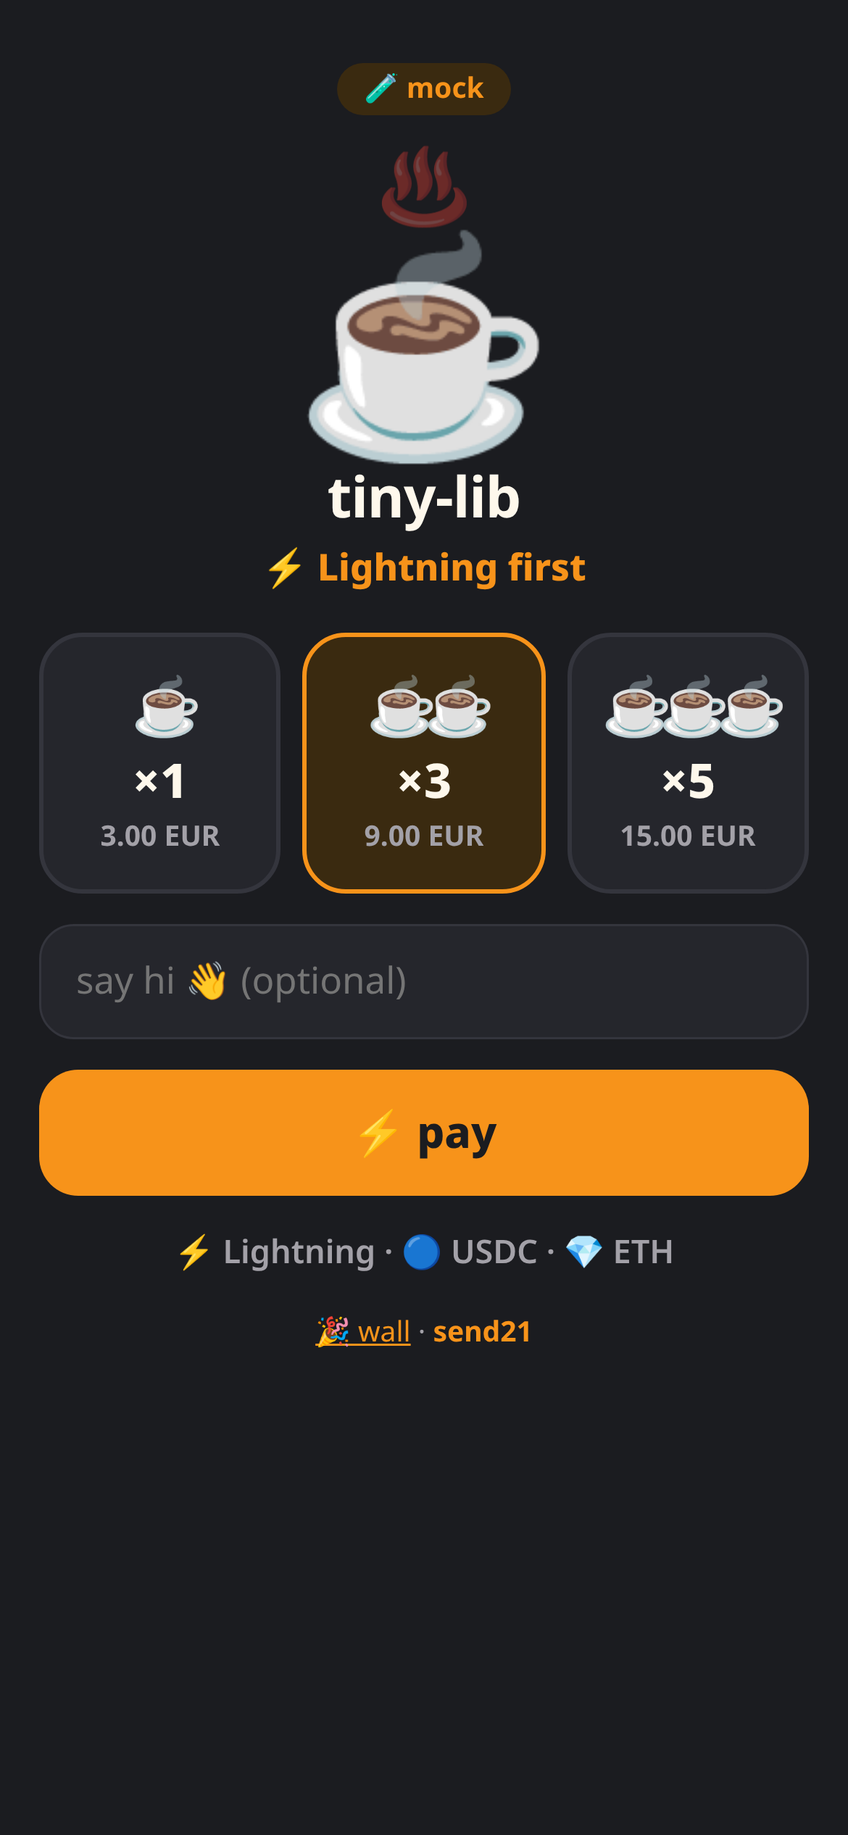
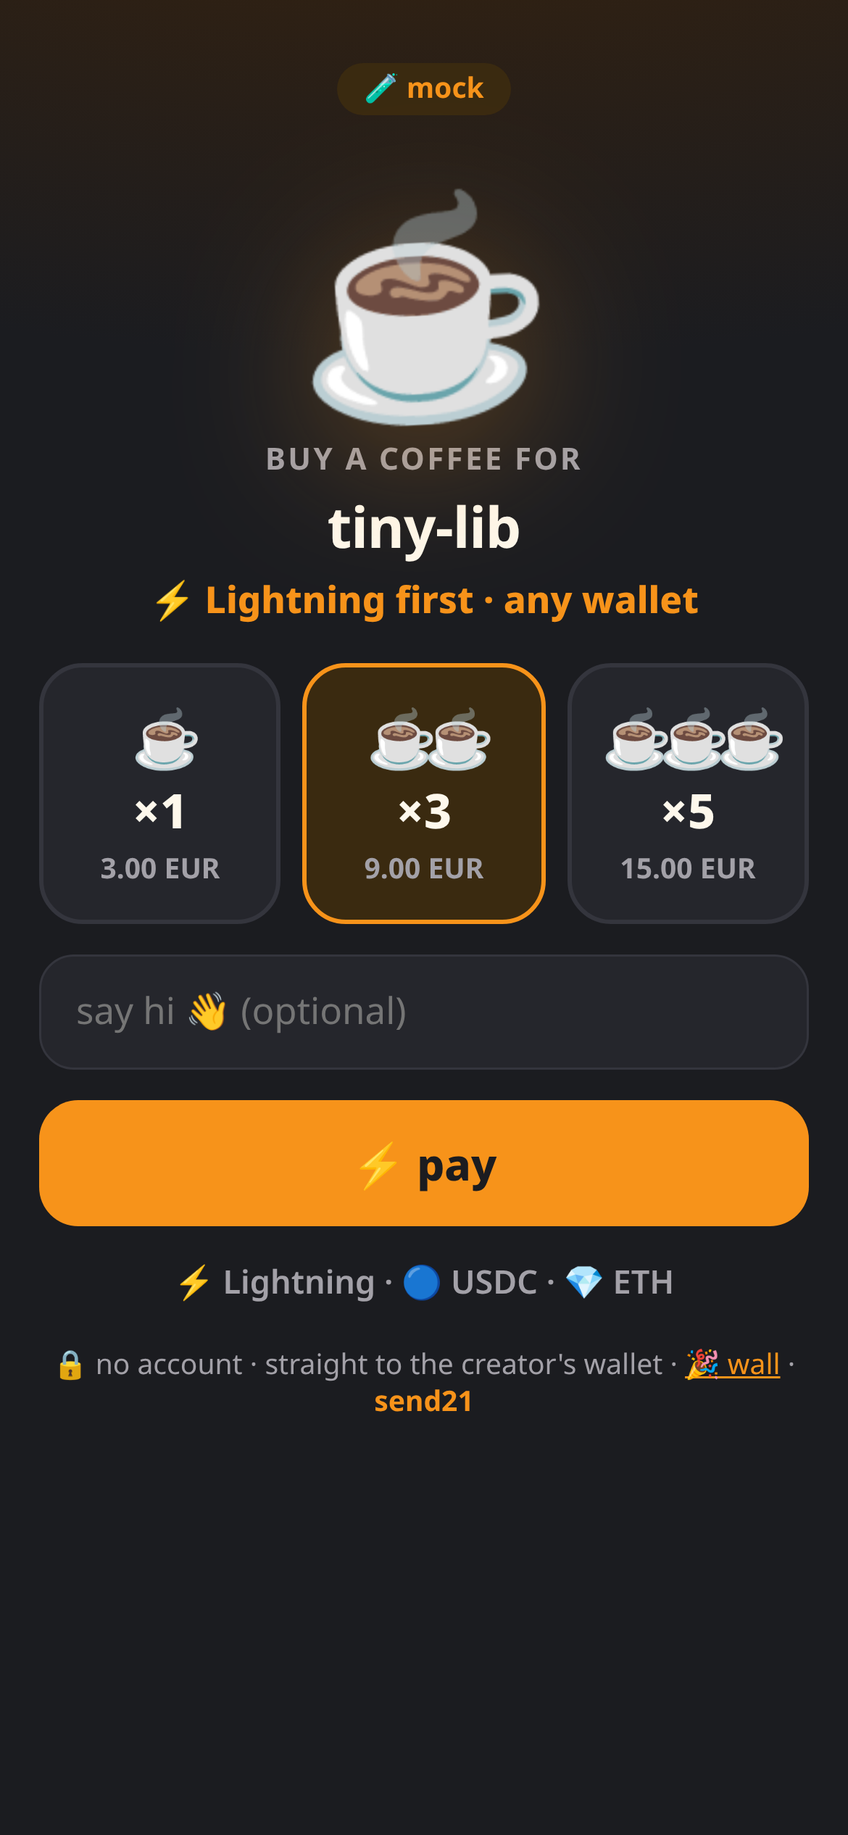
ux: keep input on errors, prices in the widget, clearer mock pay page
- a refused message re-renders with what you typed and your cups selected
  (it used to wipe the form), marked aria-invalid
- widget tiles show the same prices as the page (/api/wall carries prices)
- mock pay page: one coin picker, 👍 accept / ↩ decline for short pays,
  unknown actions 404 instead of silently expiring the order
- '1 supporters' / '1 coffees' grammar, radio tiles in a fieldset with a
  legend, demo page favicon 404, calmer mug with an orange glow
- refreshed docs screenshots

diff --git a/src/server.ts b/src/server.ts
@@ -3,7 +3,8 @@ import { dirname, resolve, sep } from "node:path";
 import { fileURLToPath } from "node:url";
 import express, { type Express, type Request, type Response } from "express";
 import { badgeSvg } from "./badge.js";
-import { applyEvent, checkInput, createOrder, wall, type CoffeeConfig } from "./coffee.js";
+import { applyEvent, checkInput, createOrder, priceFor, wall, type CoffeeConfig } from "./coffee.js";
+import { CUPS } from "./types.js";
 import { formatFiat } from "./currencies.js";
 import { coffeePage, errorPage, esc, wallPage } from "./pages.js";
 import { friendlyError, Send21Error, type createMockClient, type Send21Client } from "./send21.js";
@@ -105,7 +106,8 @@ export function createApp(deps: AppDeps): Express {
   app.post("/coffee", rateLimit(10, 60_000), express.urlencoded({ extended: false, limit: "2kb" }), async (req, res) => {
     const input = checkInput(req.body ?? {});
     if (!input.ok) {
-      res.status(400).type("html").send(coffeePage(page, { error: input.error }));
+      const b = (req.body ?? {}) as { cups?: string; message?: string };
+      res.status(400).type("html").send(coffeePage(page, { error: input.error, cups: Number(b.cups) || 3, message: typeof b.message === "string" ? b.message.slice(0, 80) : "" }));
       return;
     }
     try {
@@ -129,7 +131,9 @@ export function createApp(deps: AppDeps): Express {
   });
   app.get("/api/wall", (_req, res) => {
     // Public data by design, readable by the widget on any site.
-    res.set({ "Access-Control-Allow-Origin": "*", "Cache-Control": "public, max-age=30" }).json(wallData());
+    // prices: what each tile costs, so the widget shows the same prices as the page.
+    const prices = Object.fromEntries(CUPS.map((n) => [n, formatFiat(priceFor(n, coffee.price, coffee.currency), coffee.currency)]));
+    res.set({ "Access-Control-Allow-Origin": "*", "Cache-Control": "public, max-age=30" }).json({ ...wallData(), prices });
   });
   app.get("/badge.svg", (req, res) => {
     const left = req.query.count !== undefined ? `☕ ${wallData().coffees} coffees` : "☕ buy me a coffee";
@@ -153,7 +157,18 @@ export function createApp(deps: AppDeps): Express {
 
 // ---------- mock mode: a tiny local "pay page" that sends signed deliveries ----------
 
-function mountMock(app: Express, secret: string, { client, selfUrl }: NonNullable<AppDeps["mock"]>): void {
+const MOCK_ACTIONS: [string, string, string][] = [
+  ["paid", "✅", "pay"],
+  ["seen", "👀", "start paying"],
+  ["short", "⚠", "pay 5% short"],
+  ["accept", "👍", "accept the short pay"],
+  ["decline", "↩", "decline the short pay"],
+  ["expire", "⌛", "let it expire"],
+];
+const mockShell = (title: string, body: string) => `<!doctype html><html lang="en"><head><meta charset="utf-8"><meta name="viewport" content="width=device-width,initial-scale=1"><title>${esc(title)} · mock pay</title><link rel="icon" href="data:,"><link rel="stylesheet" href="/coffee.css"></head><body><main class="coffee">${body}</main></body></html>`;
+
+function mountMock(app: Express, secret: string, mock: NonNullable<AppDeps["mock"]>): void {
+  const { client } = mock;
   app.get("/mock/pay/:token", (req, res) => {
     const entry = client.requests.get(req.params.token);
     if (!entry) {
@@ -162,10 +177,16 @@ function mountMock(app: Express, secret: string, { client, selfUrl }: NonNullabl
     }
     const t = esc(req.params.token);
     const coins = entry.body.options.map((o, i) => `<option value="${i}">${esc(`${o.currency.toUpperCase()} · ${o.method ?? o.network}`)}</option>`).join("");
-    res.type("html").send(`<!doctype html><meta name="viewport" content="width=device-width,initial-scale=1"><title>mock pay</title><link rel="stylesheet" href="/coffee.css">
-<main class="coffee"><p class="mock">🧪 mock · no real money</p><p class="big">${esc(formatFiat(entry.body.fiatAmount, entry.body.fiatCurrency))}</p><p>${esc(entry.body.memo)}</p>
-${[["seen", "👀 start paying"], ["paid", "✅ pay"], ["short", "⚠ pay 5% short"], ["expire", "⌛ expire"]].map(([a, l]) => `<form class="mockrow" method="post" action="/mock/pay/${t}/${a}"><select name="coin">${coins}</select><button class="go">${l}</button></form>`).join("")}
-</main>`);
+    const amount = formatFiat(entry.body.fiatAmount, entry.body.fiatCurrency);
+    res.type("html").send(
+      mockShell(
+        amount,
+        `<p class="mock">🧪 mock pay page · no real money</p><p class="big">${esc(amount)}</p><p class="memo">${esc(entry.body.memo)}</p>
+<form method="post" action="/mock/pay/${t}/paid" class="mockcard"><label for="coin">🪙 pay with</label><select id="coin" name="coin">${coins}</select>
+<div class="acts">${MOCK_ACTIONS.map(([a, i, l]) => `<button formaction="/mock/pay/${t}/${a}" class="${a === "paid" ? "main" : ""}">${i} ${l}</button>`).join("")}</div></form>
+<p class="foot">Each button sends a signed webhook to this app, like send21 would. 👍 / ↩ are what the send21 account owner does with a short pay.</p>`,
+      ),
+    );
   });
 
   app.post("/mock/pay/:token/:action", express.urlencoded({ extended: false, limit: "1kb" }), async (req, res) => {
@@ -190,23 +211,43 @@ ${[["seen", "👀 start paying"], ["paid", "✅ pay"], ["short", "⚠ pay 5% 
       sentAmount: (amountSats / units).toFixed(Math.log10(units)),
       occurredAt: new Date().toISOString(),
     };
-    const action = req.params.action;
-    const body =
-      action === "paid"
-        ? { event: "draft.confirmed", data: { ...base, status: "Confirmed", txId: `mock-${randomUUID()}`, confirmations: 1 } }
-        : action === "seen"
-          ? { event: "draft.seen", data: { ...base, status: "Seen", txId: `mock-${randomUUID()}`, confirmations: 0 } }
-          : action === "short"
-            ? { event: "draft.amount_mismatch", data: { ...base, status: "AwaitingPayment", reviewState: "pending", receivedAmountSats: Math.round(amountSats * 0.95) } }
-            : { event: "payment_request.expired", data: { paymentRequestId: entry.response.id, orderId: entry.body.orderId, opened: true, quoteRequested: false } };
-    const raw = JSON.stringify(body);
-    const deliveryId = randomUUID();
-    const r = await fetch(`${selfUrl}/webhooks/send21`, {
-      method: "POST",
-      headers: { "content-type": "application/json", "x-send21-event": body.event, "x-send21-delivery": deliveryId, "x-send21-signature-v2": signV2(raw, deliveryId, Math.floor(Date.now() / 1000), secret) },
-      body: raw,
-    });
-    res.type("html").send(`<!doctype html><meta name="viewport" content="width=device-width,initial-scale=1"><link rel="stylesheet" href="/coffee.css">
-<main class="coffee"><p class="big">${r.ok ? "📨" : "❌"}</p><p>${esc(r.ok ? body.event : String(r.status))}</p><a class="go" href="/wall">🎉 wall</a><p class="foot"><a href="/mock/pay/${esc(req.params.token)}">↩ back</a></p></main>`);
+    const short = Math.round(amountSats * 0.95);
+    const tx = `mock-${randomUUID()}`;
+    const events: Record<string, { event: string; data: Record<string, unknown> }[]> = {
+      paid: [{ event: "draft.confirmed", data: { ...base, status: "Confirmed", txId: tx, confirmations: 1 } }],
+      seen: [{ event: "draft.seen", data: { ...base, status: "Seen", txId: tx, confirmations: 0 } }],
+      short: [{ event: "draft.amount_mismatch", data: { ...base, status: "AwaitingPayment", reviewState: "pending", receivedAmountSats: short } }],
+      // The owner accepts on send21: draft.mismatch_accepted, then draft.confirmed for the received amount.
+      accept: [
+        { event: "draft.mismatch_accepted", data: { ...base, status: "AwaitingPayment", reviewState: "accepted", acceptReason: "close enough", receivedAmountSats: short } },
+        { event: "draft.confirmed", data: { ...base, status: "Confirmed", txId: tx, confirmations: 1, receivedAmountSats: short } },
+      ],
+      decline: [{ event: "draft.mismatch_rejected", data: { ...base, status: "AwaitingPayment", reviewState: "rejected", rejectReason: "too short", refund: "manual", receivedAmountSats: short } }],
+      expire: [{ event: "payment_request.expired", data: { paymentRequestId: entry.response.id, orderId: entry.body.orderId, opened: true, quoteRequested: false } }],
+    };
+    const list = Object.hasOwn(events, req.params.action) ? events[req.params.action]! : null;
+    if (!list) {
+      res.status(404).send("unknown action");
+      return;
+    }
+    let r = { ok: false, status: 0 };
+    for (const body of list) {
+      const raw = JSON.stringify(body);
+      const deliveryId = randomUUID();
+      r = await fetch(`${mock.selfUrl}/webhooks/send21`, {
+        method: "POST",
+        headers: { "content-type": "application/json", "x-send21-event": body.event, "x-send21-delivery": deliveryId, "x-send21-signature-v2": signV2(raw, deliveryId, Math.floor(Date.now() / 1000), secret) },
+        body: raw,
+      });
+      if (!r.ok) break;
+    }
+    const names = list.map((b) => b.event).join(" → ");
+    res.status(r.ok ? 200 : 502).type("html").send(
+      mockShell(
+        names,
+        `<p class="big">${r.ok ? "📨" : "❌"}</p><h1>${r.ok ? "webhook sent" : `webhook refused (${r.status})`}</h1><p class="memo"><code>${esc(names)}</code></p>
+<a class="go" href="/wall">🎉 see the wall</a><a class="go ghost" href="/mock/pay/${esc(req.params.token)}">↩ mock pay page</a>`,
+      ),
+    );
   });
 }

diff --git a/test/mock.test.ts b/test/mock.test.ts
@@ -1,0 +1,87 @@
+import { mkdtempSync, rmSync } from "node:fs";
+import { tmpdir } from "node:os";
+import { join } from "node:path";
+import { afterEach, beforeEach, describe, expect, it } from "vitest";
+import { createMockClient } from "../src/send21.js";
+import { createApp } from "../src/server.js";
+import { Store } from "../src/store.js";
+import { coffeeConfig, listen, SECRET } from "./helpers.js";
+
+let dir: string;
+let server: Awaited<ReturnType<typeof listen>>;
+let store: Store;
+let mock: { client: ReturnType<typeof createMockClient>; selfUrl: string };
+
+beforeEach(async () => {
+  dir = mkdtempSync(join(tmpdir(), "coffee-mock-"));
+  store = new Store(join(dir, "c.json"));
+  mock = { client: createMockClient("http://localhost"), selfUrl: "" };
+  server = await listen(createApp({ store, send21: mock.client, secret: SECRET, coffee: coffeeConfig(), wall: { amounts: false, messages: true }, publicUrl: "http://localhost", log: () => undefined, mock }));
+  mock.selfUrl = server.url;
+});
+afterEach(async () => {
+  await server.close();
+  rmSync(dir, { recursive: true, force: true });
+});
+
+const post = (path: string, body: string) => fetch(`${server.url}${path}`, { method: "POST", redirect: "manual", headers: { "content-type": "application/x-www-form-urlencoded" }, body });
+
+async function order(message = "hi") {
+  const r = await post("/coffee", `nonce=${crypto.randomUUID().replace(/-/g, "").slice(0, 20)}&cups=1&message=${encodeURIComponent(message)}`);
+  expect(r.status).toBe(303);
+  const token = /\/mock\/pay\/([^/?#]+)/.exec(r.headers.get("location")!)![1]!;
+  const act = (a: string) => post(`/mock/pay/${token}/${a}`, "coin=0");
+  return { token, act };
+}
+const wall = async () => (await (await fetch(`${server.url}/api/wall`)).json()) as { coffees: number };
+
+describe("coffee page errors", () => {
+  it("a refused message keeps what you typed and your cups", async () => {
+    const r = await post("/coffee", "nonce=abcdefghij0123456789&cups=5&message=" + encodeURIComponent("see https://spam.example"));
+    expect(r.status).toBe(400);
+    const html = await r.text();
+    expect(html).toContain('value="see https://spam.example"');
+    expect(html).toMatch(/value="5" checked/);
+    expect(html).toContain('aria-invalid="true"');
+  });
+});
+
+describe("wall API", () => {
+  it("carries the tile prices, so the widget matches the page", async () => {
+    const w = await (await fetch(`${server.url}/api/wall`)).json();
+    expect(Object.keys(w.prices)).toEqual(["1", "3", "5"]);
+    const page = await (await fetch(`${server.url}/`)).text();
+    for (const p of Object.values(w.prices) as string[]) expect(page).toContain(p);
+  });
+});
+
+describe("mock pay page", () => {
+  it("one coin picker, every action, lang set", async () => {
+    const { token } = await order();
+    const html = await (await fetch(`${server.url}/mock/pay/${token}`)).text();
+    expect(html).toContain('<html lang="en">');
+    expect(html.match(/<select/g)).toHaveLength(1);
+    for (const a of ["paid", "seen", "short", "accept", "decline", "expire"]) expect(html).toContain(`/mock/pay/${token}/${a}`);
+  });
+
+  it("short → accept lands on the wall, short → decline does not", async () => {
+    const one = await order();
+    await one.act("short");
+    expect((await wall()).coffees).toBe(0);
+    expect((await one.act("accept")).status).toBe(200);
+    expect((await wall()).coffees).toBe(1);
+    const page = await (await fetch(`${server.url}/wall`)).text();
+    expect(page).toContain("☕ 1</b> coffee ·");
+    expect(page).toContain("💛 1</b> supporter</p>");
+    const two = await order();
+    await two.act("short");
+    await two.act("decline");
+    expect((await wall()).coffees).toBe(1);
+  });
+
+  it("an unknown action is a 404, not an expiry", async () => {
+    const { act } = await order();
+    expect((await act("nope")).status).toBe(404);
+    expect(store.orders().map((o) => o.status)).toEqual(["open"]);
+  });
+});

diff --git a/public/coffee.css b/public/coffee.css
@@ -1,14 +1,18 @@
 :root { --bg: #1b1c20; --card: #25262c; --line: #34353d; --text: #fef8ec; --dim: #a3a1a8; --orange: #f7931a; color-scheme: dark; }
 * { box-sizing: border-box; }
 html, body { margin: 0; background: var(--bg); color: var(--text); }
+body { background: radial-gradient(900px 380px at 50% -12%, #3a230c 0%, transparent 70%), var(--bg); }
 body { font: 17px/1.35 system-ui, -apple-system, "Segoe UI", Roboto, "Noto Sans", sans-serif; min-height: 100dvh; }
 a { color: var(--orange); }
 :focus-visible { outline: 3px solid var(--orange); outline-offset: 2px; }
 .coffee, .wall { max-width: 440px; margin: 0 auto; padding: 28px 18px 48px; text-align: center; }
 .mock { display: inline-block; background: #3a2a10; color: var(--orange); border-radius: 99px; padding: 3px 12px; font-weight: 700; font-size: 13px; margin: 0 0 8px; }
-.mug { position: relative; font-size: 96px; line-height: 1; margin: 48px 0 6px; }
-.steam { position: absolute; left: 50%; top: -34px; font-size: 34px; transform: translateX(-50%); animation: steam 2.4s ease-in-out infinite; opacity: .8; }
-@keyframes steam { 50% { transform: translate(-50%, -8px); opacity: .35; } }
+.mug { font-size: 96px; line-height: 1; margin: 36px 0 6px; filter: drop-shadow(0 12px 34px #f7931a55); animation: bob 3s ease-in-out infinite; }
+@keyframes bob { 50% { transform: translateY(-6px) rotate(-3deg); } }
+@media (prefers-reduced-motion: reduce) { .mug { animation: none; } }
+.kicker { color: var(--dim); font-weight: 700; font-size: 14px; text-transform: uppercase; letter-spacing: .08em; margin: 10px 0 0; }
+.sr { position: absolute; width: 1px; height: 1px; overflow: hidden; clip: rect(0 0 0 0); white-space: nowrap; }
+fieldset { border: 0; padding: 0; margin: 0; min-width: 0; }
 h1 { font-size: 26px; margin: 4px 0; letter-spacing: -.01em; }
 .hero { color: var(--orange); font-weight: 800; margin: 4px 0 18px; }
 .err { background: #3a1d1d; color: #ffb4b4; border-radius: 14px; padding: 10px 14px; font-weight: 600; }
@@ -37,7 +41,14 @@ h1 { font-size: 26px; margin: 4px 0; letter-spacing: -.01em; }
 .note .dim { color: var(--dim); }
 .note .meta { grid-area: t; color: var(--dim); font-size: 13px; }
 .empty { text-align: center; color: var(--dim); font-size: 20px; padding: 30px; }
-.mockrow { display: flex; gap: 8px; align-items: center; }
-.mockrow select { flex: 1; background: var(--card); color: inherit; border: 1px solid var(--line); border-radius: 12px; padding: 12px; font: inherit; }
-.mockrow .go { width: auto; flex: 1; min-height: 50px; font-size: 16px; margin-top: 8px; }
-@media (prefers-reduced-motion: reduce) { .steam { animation: none; } }
+.memo { color: var(--dim); margin: 0 0 18px; }
+.mockcard { background: var(--card); border: 1px solid var(--line); border-radius: 20px; padding: 16px; text-align: left; }
+.mockcard label { display: block; color: var(--dim); font-weight: 700; font-size: 14px; margin-bottom: 6px; }
+.mockcard select { width: 100%; background: #2e2f36; color: inherit; border: 1px solid var(--line); border-radius: 14px; padding: 12px; font: inherit; font-weight: 700; }
+.acts { display: grid; grid-template-columns: 1fr 1fr; gap: 8px; margin-top: 12px; }
+.acts button { min-height: 50px; padding: 10px 12px; border-radius: 14px; border: 1px solid var(--line); background: #2e2f36; color: var(--text); font: inherit; font-size: 15px; font-weight: 700; cursor: pointer; }
+.acts button:last-child:nth-child(even) { grid-column: 1 / -1; }
+.acts .main { grid-column: 1 / -1; min-height: 56px; font-size: 19px; font-weight: 800; background: var(--orange); border-color: var(--orange); color: var(--bg); }
+.go.ghost { background: transparent; border: 1px solid var(--line); color: var(--text); font-size: 17px; min-height: 50px; }
+code { background: #2e2f36; border-radius: 8px; padding: 2px 8px; font-size: 14px; }
+@media (prefers-reduced-motion: reduce) { 

diff --git a/src/pages.ts b/src/pages.ts
@@ -41,7 +41,7 @@ export interface PageConfig {
   mock: boolean;
 }
 
-export function coffeePage(cfg: PageConfig, { error, cups = 3 }: { error?: string; cups?: number } = {}): string {
+export function coffeePage(cfg: PageConfig, { error, cups = 3, message = "" }: { error?: string; cups?: number; message?: string } = {}): string {
   const lightning = cfg.options.some((o) => o.method === "Lightning");
   const tiles = CUPS.map(
     (n) => `<label class="tile"><input type="radio" name="cups" value="${n}"${n === cups ? " checked" : ""}>
@@ -51,18 +51,19 @@ export function coffeePage(cfg: PageConfig, { error, cups = 3 }: { error?: strin
     `☕ ${cfg.creator}`,
     `<main class="coffee">
 ${cfg.mock ? '<p class="mock">🧪 mock</p>' : ""}
-<div class="mug" aria-hidden="true"><span class="steam">♨</span>☕</div>
+<div class="mug" aria-hidden="true">☕</div>
+<p class="kicker">buy a coffee for</p>
 <h1>${esc(cfg.creator)}</h1>
-${lightning ? '<p class="hero">⚡ Lightning first</p>' : ""}
-${error ? `<p class="err" role="alert">${esc(error)}</p>` : ""}
+${lightning ? '<p class="hero">⚡ Lightning first · any wallet</p>' : '<p class="hero">💸 pay from any wallet</p>'}
+${error ? `<p class="err" role="alert" id="err">${esc(error)}</p>` : ""}
 <form method="post" action="/coffee">
 <input type="hidden" name="nonce" value="${newNonce()}">
-<div class="tiles">${tiles}</div>
-<input class="msg" name="message" maxlength="80" placeholder="say hi 👋 (optional)" autocomplete="off" aria-label="message">
+<fieldset class="tiles"><legend class="sr">how many coffees</legend>${tiles}</fieldset>
+<input class="msg" name="message" maxlength="80" placeholder="say hi 👋 (optional)" autocomplete="off" aria-label="message" value="${esc(message)}"${error ? ' aria-invalid="true" aria-describedby="err"' : ""}>
 <button class="go">${lightning ? "⚡" : "💸"} pay</button>
 </form>
 <p class="coins">${esc(coinsLine(cfg.options))}</p>
-<p class="foot"><a href="/wall">🎉 wall</a> · <span>send21</span></p>
+<p class="foot">🔒 no account · straight to the creator's wallet · <a href="/wall">🎉 wall</a> · <span>send21</span></p>
 </main>`,
   );
 }
@@ -89,7 +90,7 @@ export function wallPage(creator: string, w: ReturnType<typeof wall>, mock: bool
 ${mock ? '<p class="mock">🧪 mock</p>' : ""}
 <p class="big">🎉</p>
 <h1>${esc(creator)}</h1>
-<p class="stats"><b>☕ ${w.coffees}</b> coffees · <b>💛 ${w.supporters}</b> supporters</p>
+<p class="stats"><b>☕ ${w.coffees}</b> ${w.coffees === 1 ? "coffee" : "coffees"} · <b>💛 ${w.supporters}</b> ${w.supporters === 1 ? "supporter" : "supporters"}</p>
 <a class="go" href="/">☕ buy one</a>
 <ul class="notes">${items}</ul>
 <p class="foot">confirmed payments only · <span>send21</span></p>

diff --git a/public/widget.js b/public/widget.js
@@ -31,9 +31,10 @@
 .tiles { display: grid; grid-template-columns: repeat(3, 1fr); gap: 8px; }
 .tile { position: relative; }
 .tile input { position: absolute; opacity: 0; inset: 0; }
-.tile span { display: flex; flex-direction: column; align-items: center; justify-content: center; gap: 2px; min-height: 78px; border-radius: 16px;
+.tile span { display: flex; flex-direction: column; align-items: center; justify-content: center; gap: 2px; min-height: 86px; border-radius: 16px;
   background: #25262c; border: 2px solid #34353d; font-size: 22px; cursor: pointer; }
 .tile b { font-size: 16px; }
+.tile small { font-size: 11px; font-weight: 700; color: #a3a1a8; min-height: 14px; }
 .tile input:checked + span { border-color: #f7931a; background: #3a2a10; }
 .tile input:focus-visible + span { outline: 3px solid #fef8ec; }
 .msg { width: 100%; margin-top: 10px; background: #25262c; border: 1px solid #34353d; border-radius: 14px; padding: 12px; color: inherit; font-size: 15px; }
@@ -76,7 +77,7 @@
   const tile = (n, cups, checked) => {
     const input = el("input", { type: "radio", name: "cups", value: String(n), "aria-label": `${n} coffee${n > 1 ? "s" : ""}` });
     if (checked) input.checked = true;
-    return el("label", { class: "tile" }, input, el("span", {}, cups, el("b", {}, `×${n}`)));
+    return el("label", { class: "tile" }, input, el("span", {}, cups, el("b", {}, `×${n}`), el("small", { "data-n": String(n) })));
   };
   const form = el(
     "form",
@@ -101,7 +102,10 @@
     pop.hidden = !open;
     fab.setAttribute("aria-expanded", String(open));
     if (open) {
-      fetch(`${origin}/api/wall`).then((r) => r.json()).then((w) => { count.textContent = w.coffees ? `🎉 ${w.coffees} ☕` : ""; }).catch(() => undefined);
+      fetch(`${origin}/api/wall`).then((r) => r.json()).then((w) => {
+        count.textContent = w.coffees ? `🎉 ${w.coffees} ☕` : "";
+        for (const p of form.querySelectorAll("small[data-n]")) p.textContent = typeof w.prices?.[p.dataset.n] === "string" ? w.prices[p.dataset.n] : "";
+      }).catch(() => undefined);
       form.querySelector("input:checked")?.focus();
     }
   }

diff --git a/public/demo.html b/public/demo.html
@@ -1,7 +1,7 @@
 <!doctype html>
 <!-- Mock mode only (/demo): a sample project page that embeds the widget with one script tag. -->
 <html lang="en"><head><meta charset="utf-8"><meta name="viewport" content="width=device-width,initial-scale=1">
-<title>tiny-lib · docs</title><link rel="stylesheet" href="/demo.css"></head>
+<title>tiny-lib · docs</title><link rel="icon" href="data:,"><link rel="stylesheet" href="/demo.css"></head>
 <body>
 <nav>📦 tiny-lib <span>v2.1.0</span></nav>
 <main>

diff --git a/README.md b/README.md
@@ -17,7 +17,7 @@
 
 ## Quickstart
 
-1. **Try it now, no key:** `npm install && npm run dev`, then open http://localhost:3000/demo. Mock mode: tap ☕, pay on the mock page with ✅ and watch the 🎉 wall.
+1. **Try it now, no key:** `npm install && npm run dev`, then open http://localhost:3000/demo. Mock mode: tap ☕, pay on the mock page with ✅ (or try ⚠ short → 👍 accept / ↩ decline, ⌛ expire) and watch the 🎉 wall.
 2. **send21 key.** On [send21.io/api-keys](https://send21.io/api-keys), create a key with `drafts:write` (add `webhooks:manage` for step 4).
 3. **Configure.** `cp .env.example .env`: your key, `PUBLIC_URL`, `CREATOR_NAME`, `COFFEE_PRICE` + `COFFEE_CURRENCY` (say 3 EUR) and your receiving addresses: `PAY_LIGHTNING=you@your-wallet.com` and optional extras like `PAY_OPTIONS=usdc-sol:<address>`.
 4. **Webhook.** Put the app behind your own HTTPS address (for example a reverse proxy with a free Let's Encrypt certificate, and `TRUST_PROXY=1`), then run `npm run webhook:register` and paste the printed `SEND21_WEBHOOK_SECRET` into `.env`.
